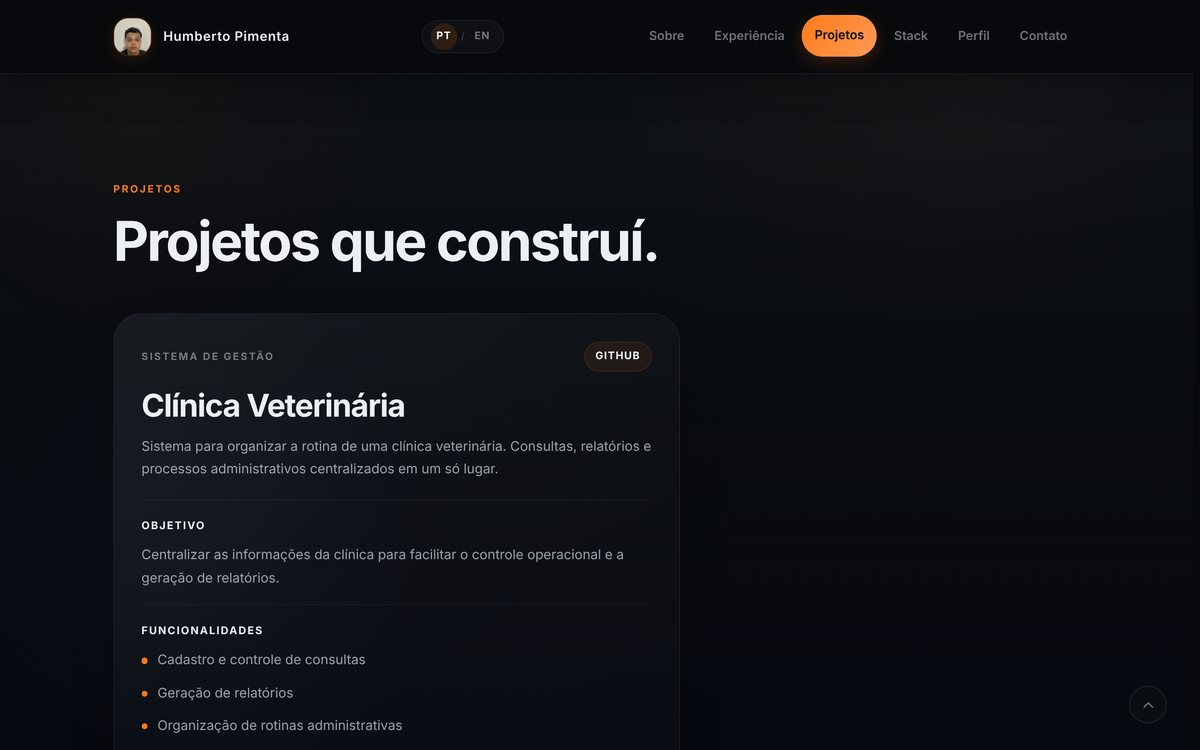
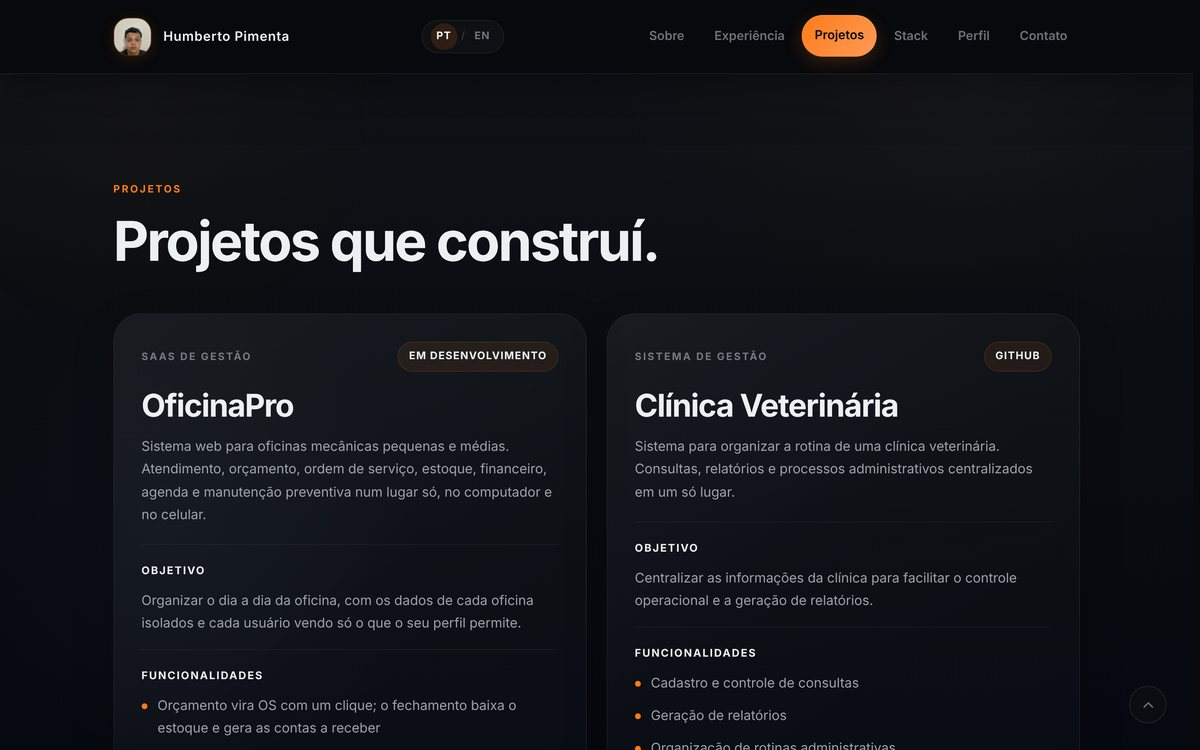
feat: adiciona o OficinaPro à seção de projetos
Card do OficinaPro, SaaS de gestão para oficinas mecânicas em
desenvolvimento, em PT e EN: objetivo, quatro funcionalidades
principais, stack (Next.js, React, TypeScript, PostgreSQL, Prisma,
Tailwind) e CI com cerca de 240 testes. O repositório é privado,
então o card mostra "demonstração sob pedido" no lugar do link
para o GitHub.

- projetos em duas colunas no desktop e em uma abaixo de 1080px
- selo do card não quebra linha no celular
- imagem da seção de projetos do README atualizada

Claude-Session: https://claude.ai/code/session_01QYJkdtNUroMc9DaDs1ixzu

diff --git a/index.html b/index.html
@@ -25,8 +25,8 @@
     <meta property="og:image:alt" content="Cartão do portfólio de Humberto Pimenta com foto, nome e cargo">
     <meta name="twitter:card" content="summary_large_image">
 
-    <link rel="stylesheet" href="style.css?v=5">
-    <script src="script.js?v=7" defer></script>
+    <link rel="stylesheet" href="style.css?v=6">
+    <script src="script.js?v=8" defer></script>
 </head>
 <body>
     <a class="skip-link" href="#conteudo" data-i18n="skipLink">Pular para o conteúdo</a>
@@ -209,6 +209,59 @@
 
                     <div class="projects-grid">
                         <article class="project-card reveal" style="--reveal-delay: 0ms">
+                            <div class="project-card__top">
+                                <p class="project-card__eyebrow" data-i18n="proj2.eyebrow">SaaS de gestão</p>
+                                <span class="project-card__badge" data-i18n="proj2.badge">Em desenvolvimento</span>
+                            </div>
+
+                            <h3>OficinaPro</h3>
+                            <p class="project-card__summary" data-i18n="proj2.summary">
+                                Sistema web para oficinas mecânicas pequenas e médias.
+                                Atendimento, orçamento, ordem de serviço, estoque, financeiro, agenda e manutenção preventiva num lugar só, no computador e no celular.
+                            </p>
+
+                            <div class="project-card__insights">
+                                <div class="project-card__group">
+                                    <span class="project-card__label" data-i18n="proj2.scopeLabel">Objetivo</span>
+                                    <p data-i18n="proj2.scopeDesc">
+                                        Organizar o dia a dia da oficina, com os dados de cada oficina isolados e cada usuário vendo só o que o seu perfil permite.
+                                    </p>
+                                </div>
+                                <div class="project-card__group">
+                                    <span class="project-card__label" data-i18n="proj2.featuresLabel">Funcionalidades</span>
+                                    <ul class="project-card__list">
+                                        <li data-i18n="proj2.feat1">Orçamento vira OS com um clique; o fechamento baixa o estoque e gera as contas a receber</li>
+                                        <li data-i18n="proj2.feat2">Financeiro com fluxo de caixa, contas a pagar e receber, DRE e relatórios em Excel, CSV e PDF</li>
+                                        <li data-i18n="proj2.feat3">Alertas de manutenção preventiva por km e tempo, com aviso ao cliente pelo WhatsApp</li>
+                                        <li data-i18n="proj2.feat4">Agenda semanal por mecânico, com aviso de conflito de horário</li>
+                                    </ul>
+                                </div>
+                                <div class="project-card__group">
+                                    <span class="project-card__label" data-i18n="proj2.stackLabel">Stack e qualidade</span>
+                                    <p data-i18n="proj2.stackDesc">CI no GitHub Actions com lint, checagem de tipos e cerca de 240 testes automatizados (unitários, de integração e de API).</p>
+                                    <div class="tag-row project-card__stack" data-i18n-aria-label="proj2.stackTags" aria-label="Tecnologias do OficinaPro">
+                                        <span>Next.js</span>
+                                        <span>React</span>
+                                        <span>TypeScript</span>
+                                        <span>PostgreSQL</span>
+                                        <span>Prisma</span>
+                                        <span>Tailwind CSS</span>
+                                    </div>
+                                </div>
+                            </div>
+
+                            <div class="project-card__footer">
+                                <span class="project-card__tag" data-i18n="proj2.tag">Full stack · SaaS</span>
+                                <span class="project-card__note">
+                                    <svg viewBox="0 0 24 24" aria-hidden="true" focusable="false" width="16" height="16">
+                                        <path fill="none" stroke="currentColor" stroke-width="2" stroke-linecap="round" stroke-linejoin="round" d="M7 11V8a5 5 0 0 1 10 0v3M5 11h14v10H5z"/>
+                                    </svg>
+                                    <span data-i18n="proj2.note">Repositório privado · demonstração sob pedido</span>
+                                </span>
+                            </div>
+                        </article>
+
+                        <article class="project-card reveal" style="--reveal-delay: 100ms">
                             <div class="project-card__top">
                                 <p class="project-card__eyebrow" data-i18n="proj1.eyebrow">Sistema de gestão</p>
                                 <span class="project-card__badge">GitHub</span>

diff --git a/script.js b/script.js
@@ -556,6 +556,22 @@ const translations = {
         "proj1.feat3": "Admin routine organization",
         "proj1.tag": "Management · Backend",
 
+        "proj2.eyebrow": "Management SaaS",
+        "proj2.badge": "In development",
+        "proj2.summary": "A web system for small and mid-sized auto repair shops. Customer service, quotes, work orders, inventory, finances, scheduling, and preventive maintenance in one place, on desktop and mobile.",
+        "proj2.scopeLabel": "Goal",
+        "proj2.scopeDesc": "Organize the shop's daily work, with each shop's data isolated and each user seeing only what their role allows.",
+        "proj2.featuresLabel": "Features",
+        "proj2.feat1": "Quotes become work orders in one click; closing an order updates inventory and creates receivables",
+        "proj2.feat2": "Finances with cash flow, payables and receivables, income statement, and Excel, CSV, and PDF reports",
+        "proj2.feat3": "Preventive maintenance alerts by mileage and time, with customer reminders via WhatsApp",
+        "proj2.feat4": "Weekly schedule per mechanic, with double-booking warnings",
+        "proj2.stackLabel": "Stack & quality",
+        "proj2.stackDesc": "CI on GitHub Actions with linting, type checks, and about 240 automated tests (unit, integration, and API).",
+        "proj2.stackTags": "OficinaPro technologies",
+        "proj2.tag": "Full stack · SaaS",
+        "proj2.note": "Private repository · demo on request",
+
         "skills.label": "Tech stack",
         "skills.title": "What I use daily.",
         "skills.s1Title": "Frontend",

diff --git a/style.css b/style.css
@@ -1166,9 +1166,34 @@ body::after {
 
 .projects-grid {
     display: grid;
-    grid-template-columns: minmax(0, 1fr);
+    grid-template-columns: repeat(2, minmax(0, 1fr));
     gap: 1.5rem;
-    max-width: 680px;
+    align-items: start;
+}
+
+.project-card__stack {
+    margin-top: 0.85rem;
+}
+
+.project-card__note {
+    display: inline-flex;
+    align-items: center;
+    gap: 0.45rem;
+    color: var(--color-text-soft);
+    font-size: 0.82rem;
+    font-weight: 600;
+}
+
+.project-card__note svg {
+    flex-shrink: 0;
+    color: var(--color-accent);
+}
+
+@media (max-width: 1080px) {
+    .projects-grid {
+        grid-template-columns: minmax(0, 1fr);
+        max-width: 680px;
+    }
 }
 
 .project-card {
@@ -1221,6 +1246,8 @@ body::after {
 }
 
 .project-card__badge {
+    flex-shrink: 0;
+    white-space: nowrap;
     padding: 0.42rem 0.8rem;
     border: 1px solid rgba(255, 122, 26, 0.14);
     border-radius: 999px;
